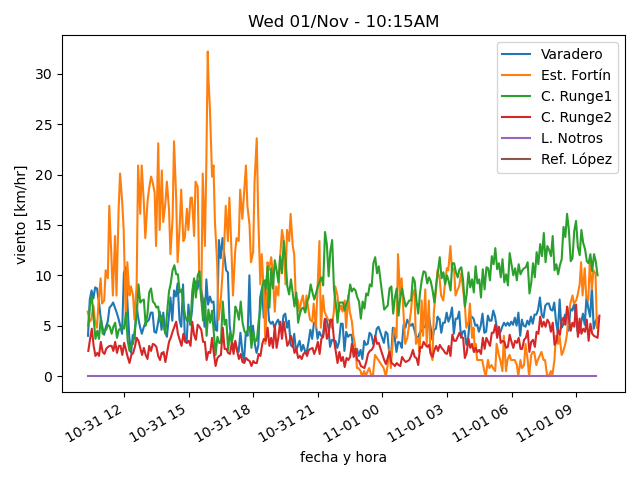
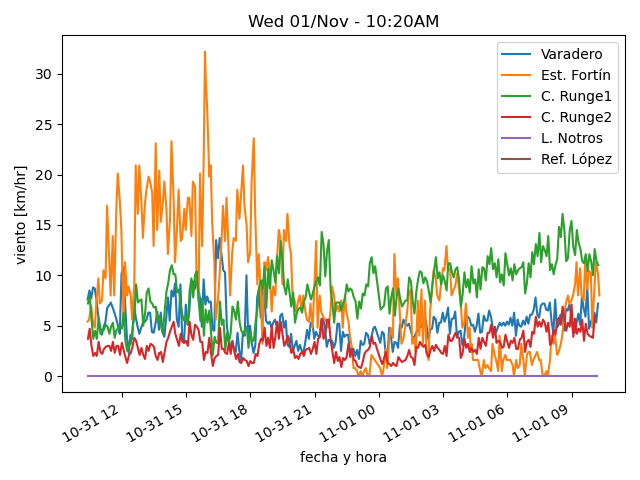
actualiza datos

diff --git a/estaciones/estacion2.html b/estaciones/estacion2.html
@@ -18,17 +18,17 @@
     </tr>
     <tr>
      <td class="stats_data">
-      9:58AM
+      10:18AM
      </td>
     </tr>
     <tr>
      <td class="stats_data">
-      3.3⁰C
+      3.2⁰C
      </td>
     </tr>
     <tr>
      <td class="stats_data">
-      2.1⁰C
+      1.9⁰C
      </td>
     </tr>
     <tr>
@@ -43,22 +43,22 @@
     </tr>
     <tr>
      <td class="stats_data">
-      0.0/4.8 km/hr ESE
+      3.9/8.0 km/hr ESE
      </td>
     </tr>
     <tr>
      <td class="stats_data">
-      4.57 / 0.25 mm
+      5.08 / 0.51 mm
      </td>
     </tr>
     <tr>
      <td class="stats_data">
-      1.0
+      1.1
      </td>
     </tr>
     <tr>
      <td class="stats_data">
-      213.0 W/m²
+      192.0 W/m²
      </td>
     </tr>
    </tbody>

diff --git a/estaciones/estacion1.html b/estaciones/estacion1.html
@@ -18,7 +18,7 @@
     </tr>
     <tr>
      <td class="stats_data">
-      9:59AM
+      10:14AM
      </td>
     </tr>
     <tr>
@@ -28,12 +28,12 @@
     </tr>
     <tr>
      <td class="stats_data">
-      2.7⁰C
+      2.8⁰C
      </td>
     </tr>
     <tr>
      <td class="stats_data">
-      87.1%
+      87.2%
      </td>
     </tr>
     <tr>
@@ -43,7 +43,7 @@
     </tr>
     <tr>
      <td class="stats_data">
-      3.8/5.8 km/hr SSW
+      5.1/7.2 km/hr SSW
      </td>
     </tr>
     <tr>
@@ -58,7 +58,7 @@
     </tr>
     <tr>
      <td class="stats_data">
-      252.9 W/m²
+      291.4 W/m²
      </td>
     </tr>
    </tbody>

diff --git a/estaciones/estacion3.html b/estaciones/estacion3.html
@@ -18,7 +18,7 @@
     </tr>
     <tr>
      <td class="stats_data">
-      9:59AM
+      10:14AM
      </td>
     </tr>
     <tr>
@@ -33,7 +33,7 @@
     </tr>
     <tr>
      <td class="stats_data">
-      92.0%
+      92.3%
      </td>
     </tr>
     <tr>
@@ -43,7 +43,7 @@
     </tr>
     <tr>
      <td class="stats_data">
-      6.2/10.0 km/hr SE
+      7.7/11.0 km/hr SE
      </td>
     </tr>
     <tr>
@@ -58,7 +58,7 @@
     </tr>
     <tr>
      <td class="stats_data">
-      163.1 W/m²
+      164.3 W/m²
      </td>
     </tr>
    </tbody>

diff --git a/estaciones/estacion5.html b/estaciones/estacion5.html
@@ -18,12 +18,12 @@
     </tr>
     <tr>
      <td class="stats_data">
-      9:55AM
+      10:10AM
      </td>
     </tr>
     <tr>
      <td class="stats_data">
-      4.2⁰C
+      4.1⁰C
      </td>
     </tr>
     <tr>
@@ -33,12 +33,12 @@
     </tr>
     <tr>
      <td class="stats_data">
-      83.0%
+      84.0%
      </td>
     </tr>
     <tr>
      <td class="stats_data">
-      1026.18hPa
+      1026.21hPa
      </td>
     </tr>
     <tr>
